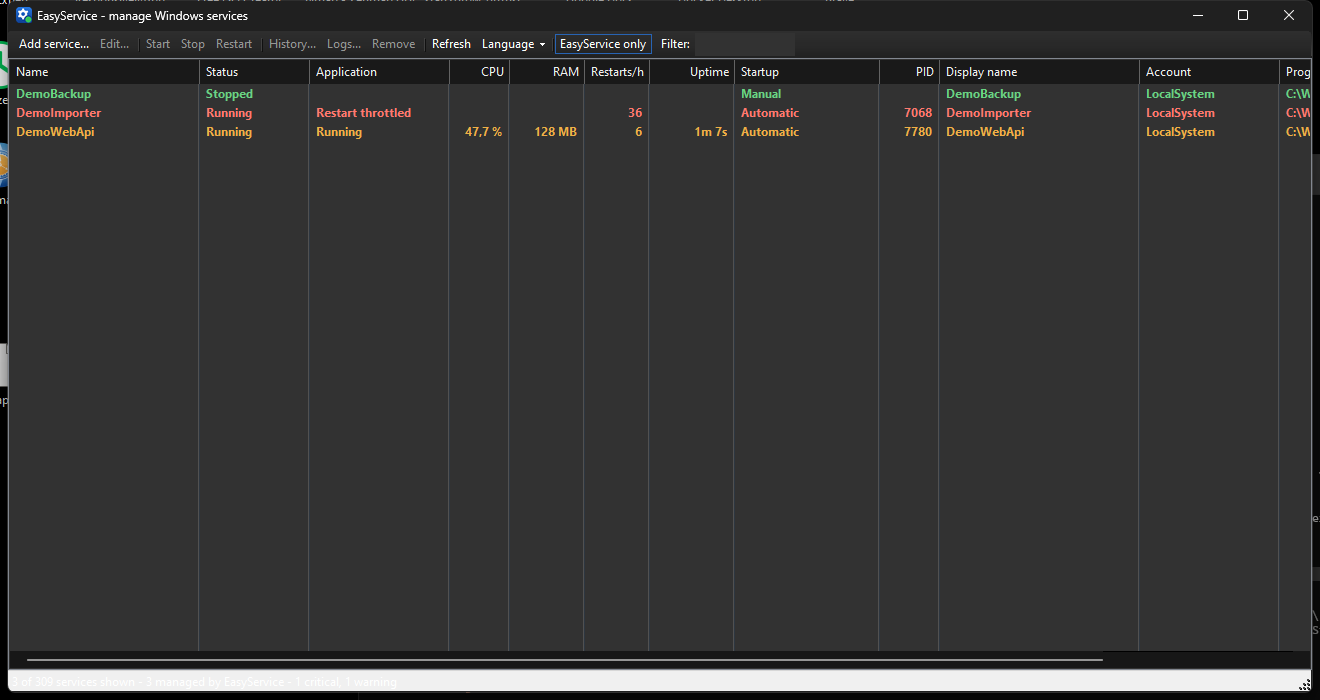
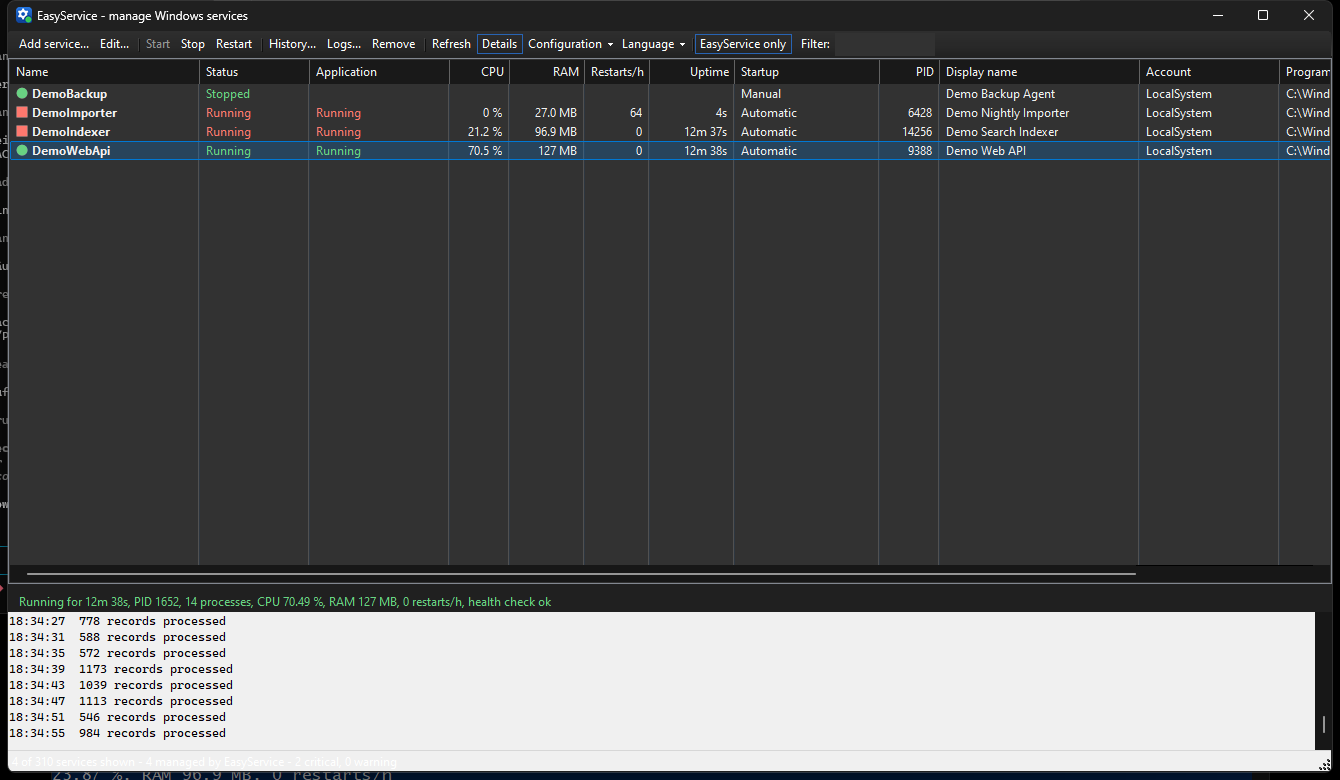
Dunkler Modus: Vorschaufeld und Statusleiste blieben hell
Beim Aufnehmen der neuen Screenshots aufgefallen: der dunkle Modus von Windows
Forms erreicht nicht jedes Steuerelement. Ein TextBox bleibt weiss, eine
StatusStrip hellgrau - im dunklen Fenster sieht das aus wie ein Loch. Betroffen
waren die neue Vorschau unter der Liste, die Statuszeile und das
Protokollfenster.

Ui.FollowTheme faerbt genau diese beiden Arten nach, und zwar erst nach dem
Laden: vorher meldet jedes Steuerelement noch die Standardfarbe, weil es sein
Handle noch nicht hat.

Dazu eine Analyzer-Warnung im Testserver beruhigt: der Rueckgabewert von
ReadAsync wird jetzt ausgewertet.

Claude-Session: https://claude.ai/code/session_01CmNnWUW3xNZXX2PBBoZYwA

diff --git a/src/EasyService/Gui/Ui.cs b/src/EasyService/Gui/Ui.cs
@@ -70,6 +70,40 @@ internal static class Ui
         };
     }
 
+    /// <summary>
+    /// Paints the controls that the Windows Forms dark mode does not reach. A TextBox stays
+    /// white and a StatusStrip stays light grey in an otherwise dark window, which reads as a
+    /// hole in the middle of it. Call this once the form has its colours, not in a
+    /// constructor - before the handle exists, every control still reports the default.
+    /// </summary>
+    public static void FollowTheme(Control control)
+    {
+        var form = control.FindForm();
+        if (form is null || !IsDark(form)) return;
+
+        var background = Color.FromArgb(32, 32, 32);
+        var foreground = Color.FromArgb(224, 224, 224);
+
+        foreach (var child in Descend(control))
+        {
+            switch (child)
+            {
+                case TextBox box:
+                    box.BackColor = background;
+                    box.ForeColor = foreground;
+                    break;
+
+                case StatusStrip strip:
+                    strip.BackColor = Color.FromArgb(45, 45, 45);
+                    strip.ForeColor = foreground;
+                    break;
+            }
+        }
+    }
+
+    private static IEnumerable<Control> Descend(Control control) =>
+        new[] { control }.Concat(control.Controls.Cast<Control>().SelectMany(Descend));
+
     // ------------------------------------------------------------ status icons ---
 
     /// <summary>

diff --git a/tests/EasyService.Tests/HealthTests.cs b/tests/EasyService.Tests/HealthTests.cs
@@ -67,7 +67,8 @@ internal static class HealthTests
                                 // gelesen zu haben, bekommt von Windows ein RST - und damit
                                 // verwirft der Client die Antwort, die schon unterwegs war.
                                 var request = new byte[4096];
-                                await client.GetStream().ReadAsync(request, _cts.Token);
+                                var drained = await client.GetStream().ReadAsync(request, _cts.Token);
+                                if (drained <= 0) return;   // die Gegenseite hat sofort aufgelegt
 
                                 if (delay > TimeSpan.Zero) await Task.Delay(delay, _cts.Token);
 

diff --git a/src/EasyService/Gui/MainForm.cs b/src/EasyService/Gui/MainForm.cs
@@ -191,6 +191,7 @@ public sealed class MainForm : Form
             _list.SmallImageList = _statusIcons;
             _rowFont = _list.Font;
             _rowFontBold = new Font(_list.Font, FontStyle.Bold);
+            Ui.FollowTheme(this);
 
             RestoreWindowState();
             ApplyPreviewLayout();

diff --git a/src/EasyService/Gui/LogViewerForm.cs b/src/EasyService/Gui/LogViewerForm.cs
@@ -114,6 +114,7 @@ public sealed class LogViewerForm : Form
 
         Load += (_, _) =>
         {
+            Ui.FollowTheme(this);
             PopulateFileList();
             OpenSelected(force: true);
             _timer.Start();
